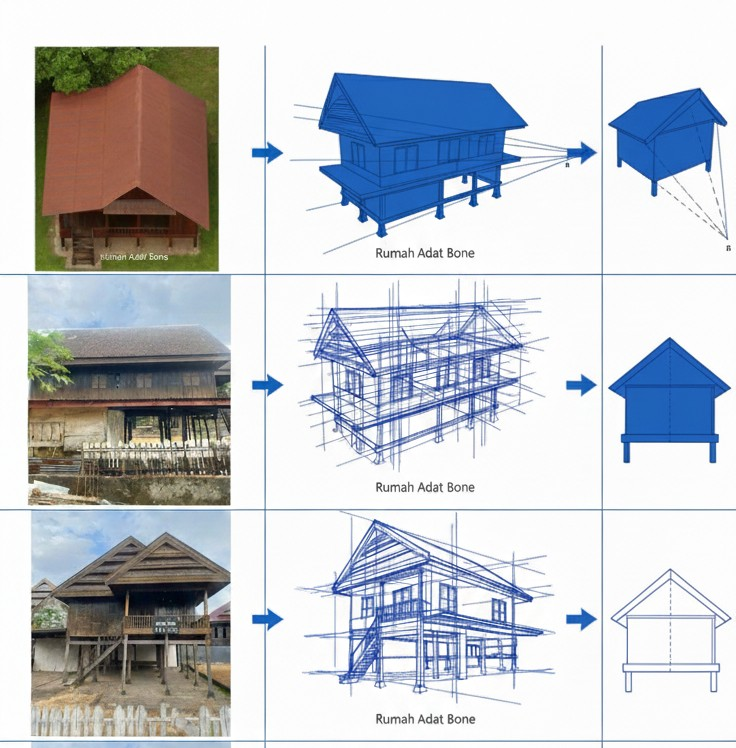
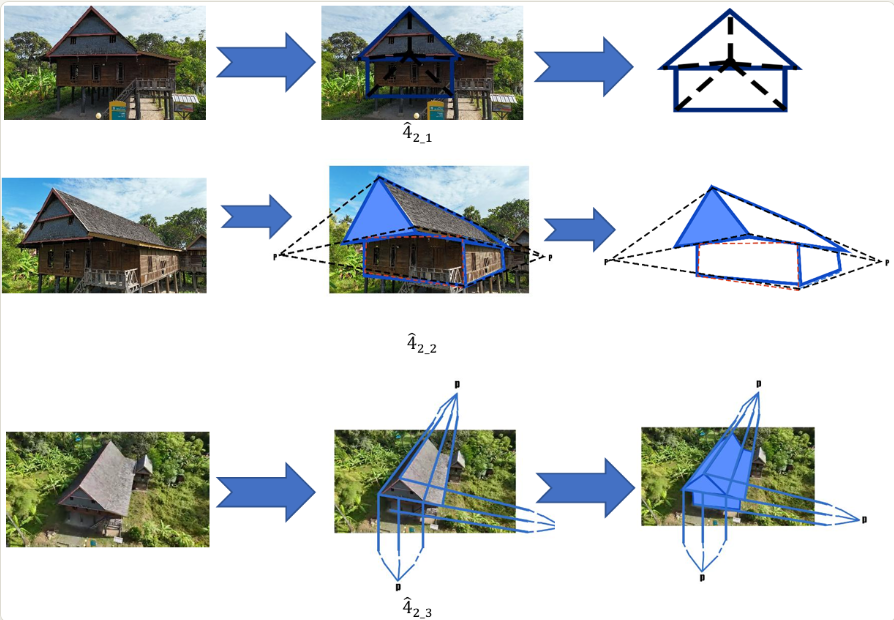
Update Semua Modified

diff --git a/vidio.html b/vidio.html
@@ -27,9 +27,9 @@
 <body>
   <div class="top-bar">
     <a href="index.html" class="go-home">← Kembali ke Beranda</a>
-    <h3 class="page-title">Video Bola Soba Rumah Adat Baruga</h3>
+    <h3 class="page-title">Video Bola Soba Rumah Adat Bone</h3>
     <div class="top-bar__actions">
-      <a class="minimap-btn" href="https://youtu.be/RwrsEWCig_k?si=bQd-SbtQSEK86hV-" target="_blank" rel="noopener noreferrer">Buka di YouTube</a>
+      <a class="minimap-btn" href="https://youtu.be/trHOGmM9cU4?feature=shared" target="_blank" rel="noopener noreferrer">Buka di YouTube</a>
     </div>
   </div>
 
@@ -37,16 +37,16 @@
     <section class="video-card">
       <div class="video-frame">
         <iframe id="ytplayer"
-          src="https://www.youtube-nocookie.com/embed/RwrsEWCig_k"
+          src="https://www.youtube.com/embed/trHOGmM9cU4"
           title="Video Bola Soba"
           allow="accelerometer; autoplay; clipboard-write; encrypted-media; gyroscope; picture-in-picture; web-share"
           allowfullscreen>
         </iframe>
         <!-- fallback if embed is blocked: shows thumbnail linking to YouTube -->
         <div id="videoFallback" style="display:none;max-width:920px;width:100%;text-align:center;margin-top:12px">
-          <a id="fallbackLink" href="https://youtu.be/RwrsEWCig_k" target="_blank" rel="noopener noreferrer" style="display:inline-block;text-decoration:none;color:inherit">
+          <a id="fallbackLink" href="https://youtu.be/trHOGmM9cU4?feature=shared" target="_blank" rel="noopener noreferrer" style="display:inline-block;text-decoration:none;color:inherit">
             <div style="position:relative;display:inline-block;border-radius:12px;overflow:hidden;border:1px solid rgba(255,255,255,0.04)">
-              <img src="https://img.youtube.com/vi/RwrsEWCig_k/hqdefault.jpg" alt="Video thumbnail" style="display:block;width:100%;height:auto;max-width:920px;">
+              <img src="https://img.youtube.com/vi/trHOGmM9cU4/maxresdefault.jpg" alt="Video thumbnail" style="display:block;width:100%;height:auto;max-width:920px;">
               <div style="position:absolute;left:50%;top:50%;transform:translate(-50%,-50%);background:var(--accent);color:#042033;padding:12px 16px;border-radius:999px;font-weight:700;box-shadow:0 8px 20px rgba(19,194,255,0.12)">Tonton di YouTube</div>
             </div>
           </a>
